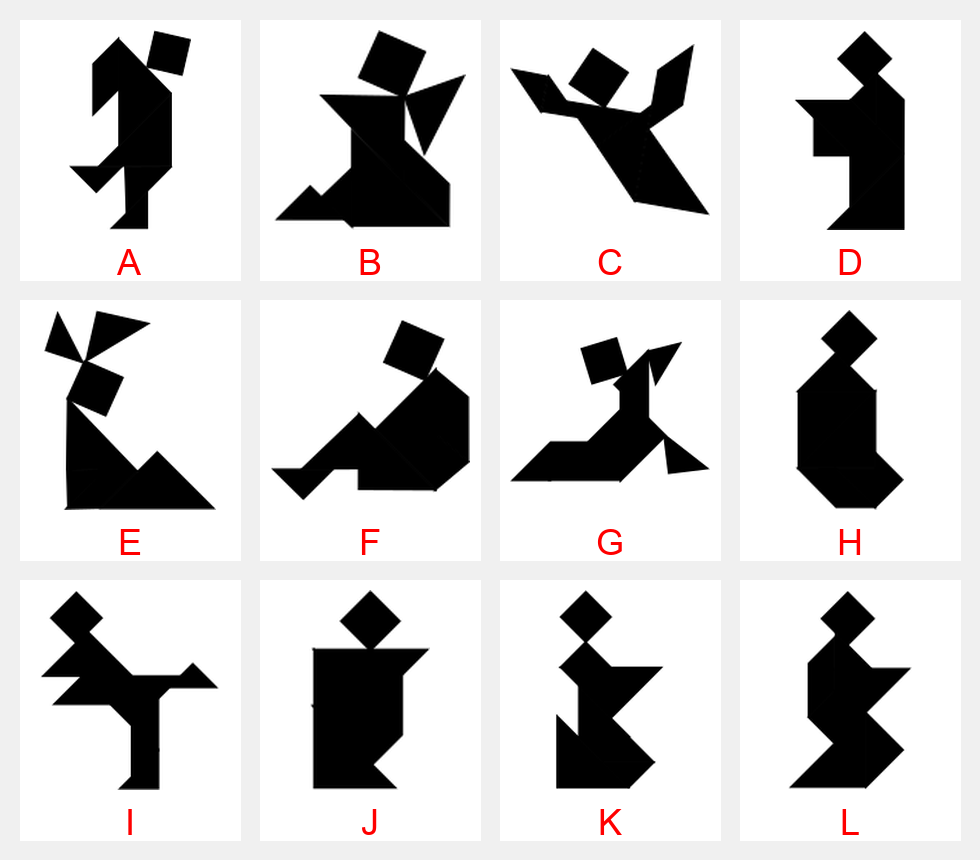
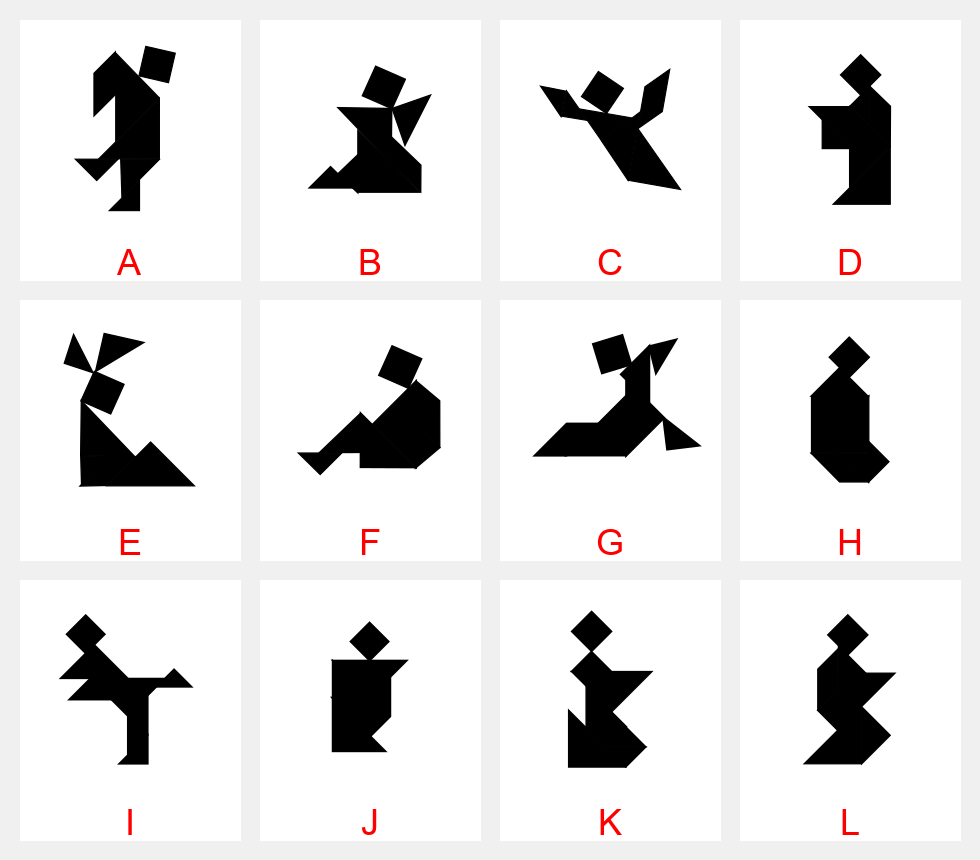
nevermind

diff --git a/scripts/compile_images.py b/scripts/compile_images.py
@@ -11,52 +11,27 @@ import cairosvg
 from PIL import Image, ImageDraw, ImageFont
 from pyprojroot import here
 
-IMAGE_SIZE = 200
-CONTENT_MARGIN = 0
-
-
-def get_content_bbox(img):
-    """Find content bounds from transparency only."""
-    rgba = img.convert("RGBA")
-    alpha = rgba.split()[3]
-    return alpha.getbbox()
-
 
 def svg_to_pil(svg_path):
     """Convert SVG file to PIL Image with proper background handling."""
     try:
-        # Convert SVG to PNG bytes. Keep alpha so we can trim accurately.
+        # Convert SVG to PNG bytes with white background
         png_bytes = cairosvg.svg2png(
             url=svg_path,
-            output_width=IMAGE_SIZE,
-            output_height=IMAGE_SIZE,
+            background_color="white",
+            output_width=200,  # Set a consistent width
+            output_height=200,  # Set a consistent height
         )
         # Create PIL Image from bytes
         img = Image.open(BytesIO(png_bytes))
-        if img.mode != "RGBA":
-            img = img.convert("RGBA")
-
-        bbox = get_content_bbox(img)
-        if bbox:
-            img = img.crop(bbox)
-
-        max_content_size = max(1, IMAGE_SIZE - 2 * CONTENT_MARGIN)
-        # Scale content to fill the available area (up or down), preserving aspect ratio.
-        scale = min(max_content_size / img.width, max_content_size / img.height)
-        new_width = max(1, int(round(img.width * scale)))
-        new_height = max(1, int(round(img.height * scale)))
-        img = img.resize((new_width, new_height), Image.Resampling.LANCZOS)
-
-        # Place trimmed content on a consistent white tile.
-        output = Image.new("RGB", (IMAGE_SIZE, IMAGE_SIZE), "white")
-        paste_x = (IMAGE_SIZE - img.width) // 2
-        paste_y = (IMAGE_SIZE - img.height) // 2
-        output.paste(img, (paste_x, paste_y), img)
-        return output
+        # Convert to RGB if necessary (removes alpha channel)
+        if img.mode != "RGB":
+            img = img.convert("RGB")
+        return img
     except Exception as e:
         print(f"Error converting {svg_path}: {e}")
         # Return a placeholder image if conversion fails
-        placeholder = Image.new("RGB", (IMAGE_SIZE, IMAGE_SIZE), "lightgray")
+        placeholder = Image.new("RGB", (200, 200), "lightgray")
         draw = ImageDraw.Draw(placeholder)
         draw.text((50, 90), "Error", fill="black")
         return placeholder
